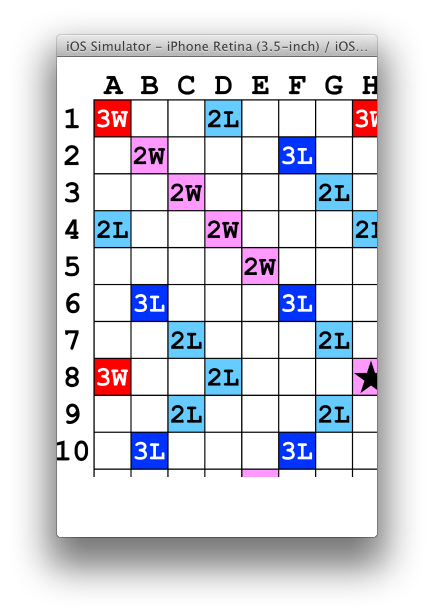
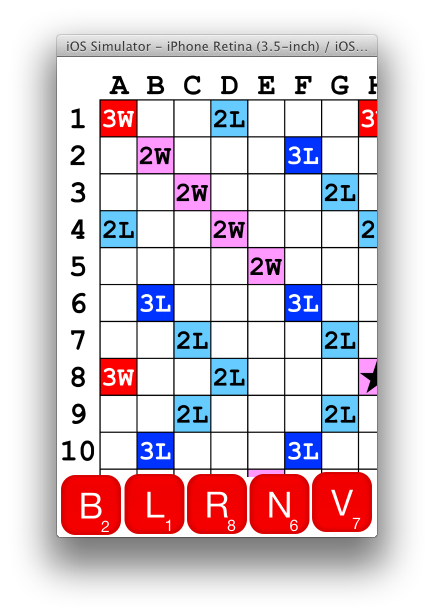
Add Tile class and assets

Changed region(s): [[0.1198, 0.1234, 0.8687, 0.8945], [0.7488, 0.1234, 0.8088, 0.1542], [0.659, 0.1234, 0.7189, 0.1542]]

diff --git a/Scroll/Scroll/Tile.m b/Scroll/Scroll/Tile.m
@@ -1,0 +1,79 @@
+#import "Tile.h"
+
+static NSString* const kLetters =  @"ABCDEFGHIJKLMNOPQRSTUWVXYZ";
+
+@implementation Tile
+
+- (void)awakeFromNib
+{
+    [super awakeFromNib];
+    
+    NSString* randomLetter = [kLetters substringWithRange:[kLetters rangeOfComposedCharacterSequenceAtIndex:random()%[kLetters length]]];
+    int randomInteger = 1 + (int)arc4random_uniform(9);
+    NSLog(@"%s: randomLetter=%@, randomInteger=%d", __PRETTY_FUNCTION__, randomLetter, randomInteger);
+    
+    _smallLetter.text = _bigLetter.text = randomLetter;
+    _smallValue.text = _bigValue.text = [NSString stringWithFormat:@"%d", randomInteger];
+}
+
+- (void)touchesBegan:(NSSet*)touches withEvent:(UIEvent*)event
+{
+    NSLog(@"%s", __PRETTY_FUNCTION__);
+    
+    [_smallImage setHidden:YES];
+    [_smallLetter setHidden:YES];
+    [_smallValue setHidden:YES];
+    
+    [_bigImage setHidden:NO];
+    [_bigLetter setHidden:NO];
+    [_bigValue setHidden:NO];
+
+    [self.superview bringSubviewToFront:self];
+}
+
+- (void) touchesMoved:(NSSet*)touches withEvent:(UIEvent*)event
+{
+    NSLog(@"%s", __PRETTY_FUNCTION__);
+
+    UITouch *touch = [touches anyObject];
+    CGPoint location = [touch locationInView:self];
+    CGPoint previous = [touch previousLocationInView:self];
+    self.frame = CGRectOffset(self.frame,
+                              (location.x - previous.x),
+                              (location.y - previous.y));
+}
+
+- (void)touchesEnded:(NSSet*)touches withEvent:(UIEvent*)event
+{
+    NSLog(@"%s", __PRETTY_FUNCTION__);
+
+    [_smallImage setHidden:NO];
+    [_smallLetter setHidden:NO];
+    [_smallValue setHidden:NO];
+    
+    [_bigImage setHidden:YES];
+    [_bigLetter setHidden:YES];
+    [_bigValue setHidden:YES];
+}
+
+- (void)touchesCancelled:(NSSet*)touches withEvent:(UIEvent*)event
+{
+    NSLog(@"%s", __PRETTY_FUNCTION__);
+
+    [_smallImage setHidden:NO];
+    [_smallLetter setHidden:NO];
+    [_smallValue setHidden:NO];
+    
+    [_bigImage setHidden:YES];
+    [_bigLetter setHidden:YES];
+    [_bigValue setHidden:YES];
+}
+
+- (NSString*)description
+{
+    return [NSString stringWithFormat:@"%@ %@",
+            self.smallLetter.text,
+            self.smallValue.text];
+}
+
+@end

diff --git a/Scroll/Scroll/ViewController.m b/Scroll/Scroll/ViewController.m
@@ -1,4 +1,9 @@
 #import "ViewController.h"
+#import "Tile.h"
+
+static int const kNumTiles = 5;
+static int const kWidth    = 60;
+static int const kHeight   = 60;
 
 @implementation ViewController
 
@@ -9,6 +14,19 @@
     NSLog(@"%s: image %@",
           __PRETTY_FUNCTION__,
           NSStringFromCGSize(_imageView.image.size));
+    
+    for (int i = 0; i < kNumTiles; i++) {
+        Tile *tile = [[[NSBundle mainBundle] loadNibNamed:@"Tile"
+                                                    owner:self
+                                                  options:nil] firstObject];
+        tile.frame = CGRectMake(
+                                (int)arc4random_uniform(self.view.bounds.size.width - kWidth),
+                                self.view.bounds.size.height - kHeight,
+                                kWidth,
+                                kHeight);
+        
+        [self.view addSubview:tile];
+    }
 }
 
 - (void)viewDidLayoutSubviews

diff --git a/Scroll/Scroll/Tile.h b/Scroll/Scroll/Tile.h
@@ -1,0 +1,13 @@
+#import <UIKit/UIKit.h>
+
+@interface Tile : UIView
+
+@property (weak, nonatomic) IBOutlet UIImageView *bigImage;
+@property (weak, nonatomic) IBOutlet UILabel *bigLetter;
+@property (weak, nonatomic) IBOutlet UILabel *bigValue;
+
+@property (weak, nonatomic) IBOutlet UIImageView *smallImage;
+@property (weak, nonatomic) IBOutlet UILabel *smallLetter;
+@property (weak, nonatomic) IBOutlet UILabel *smallValue;
+
+@end
